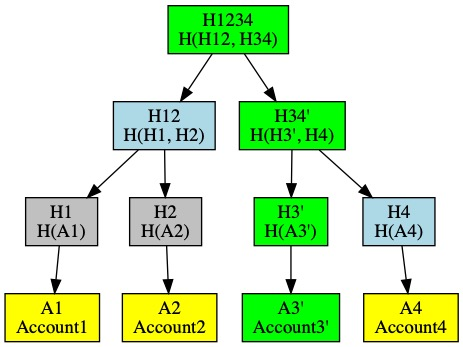
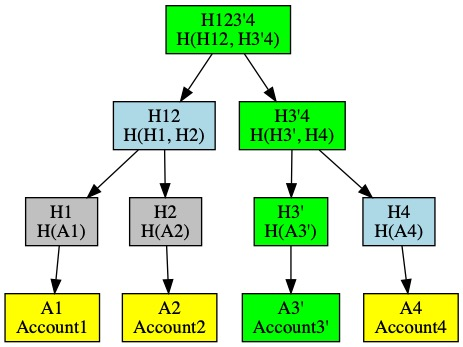
Removed sexy color and made updates to slides

Changed region(s): [[0.3326, 0.0, 0.635, 0.1729], [0.635, 0.317, 0.6955, 0.3458]]

diff --git a/my-presentation/spectacle/presentations/index.js b/my-presentation/spectacle/presentations/index.js
@@ -34,9 +34,14 @@ require('prismjs/components/prism-ocaml');
 require("normalize.css");
 require("spectacle/lib/themes/default/index.css");
 
-const theme = createTheme({
-  primary: "#ff4081"
-});
+const theme = createTheme(
+  {
+    primary: '#03A9FC',
+    secondary: 'white',
+    tertiary: '#1F2022',
+    quaternary: '#CECECE',
+  }
+);
 
 
 const images = {
@@ -99,12 +104,13 @@ export default class Presentation extends React.Component {
             <ImageSlide image={images.merkle_tree_update_root} title="Make update until the root is updated" />
           </Slide>
           <Slide transition={["slide", "fade"]} bgColor="primary">
-            <Heading size={4} caps lineHeight={1} textColor="tertiary">
+            <Heading size={4} caps lineHeight={1} textColor="secondary">
               Requirements:
             </Heading>
-            <Text textColor="tertiary" size={1}>Create an elegant implementation of a Merkle Tree Persistent Database where all operations are as fast as possible and all writes are atomic</Text>
+            <Text textColor="secondary" size={1}>Create an elegant implementation of a Merkle Tree Persistent Database where all operations are as fast as possible and all writes are atomic</Text>
           </Slide>
           <CodeSlide
+            
             transition={["slide", "fade"]}
             lang="ocaml"
             code={require("raw-loader!./code/adt.ml")}
@@ -114,11 +120,11 @@ export default class Presentation extends React.Component {
               { loc: [4, 9] },
               { loc: [10, 13] },
               { loc: [10, 13], image: images.adt_tree },
-              {loc : [14, ] }
+              {loc : [14, 30] }
             ]}
           />
           <Slide transition={["fade"]} textColor="primary">
-            <Heading size={4} caps lineHeight={1} textColor="tertiary">
+            <Heading size={4} caps lineHeight={1} textColor="secondary">
               What if we want a Balanced Tree?
             </Heading>
             <Image src={images.balanced_tree}></Image>
@@ -182,12 +188,12 @@ export default class Presentation extends React.Component {
           />
           <Slide transition={["fade"]} textColor="primary">
             <Appear fid="1">
-              <Text margin="10px 0 0" textColor="tertiary" size={1} bold>
+              <Text margin="10px 0 0" textColor="secondary" size={1} bold>
                 Merkle Tree State
           </Text>
             </Appear>
             <Appear fid="2">
-            <List textColor="tertiary" size={4} bold>
+            <List textColor="secondary" size={4} bold>
               <ListItem>Accounts</ListItem>
               <ListItem>Addresses to Accounts</ListItem>
               <ListItem>Hashes and their Address</ListItem>
@@ -195,7 +201,7 @@ export default class Presentation extends React.Component {
             </List>
             </Appear>
             <Appear fid="3">
-              <Text margin="10px 0 0" textColor="tertiary" size={1} bold>
+              <Text margin="10px 0 0" textColor="secondary" size={1} bold>
                 We can store all of this in a Key-Value Database
           </Text>
             </Appear>
